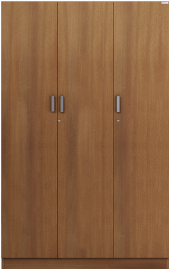
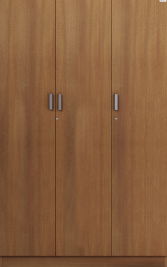
a

Changed region(s): [[0.0, 0.0, 1.0, 1.0]]

diff --git a/index.html b/index.html
@@ -167,10 +167,11 @@
 		scene.add(bedGroup);
 
 		var loader = new THREE.TextureLoader();
-		var textureBox = loader.load("wardrobe.png");
+		var textureBoxF = loader.load("wardrobe.png");
+		var textureBox = loader.load("wardrobes.png");
 
 		var materialsk = [
-			new THREE.MeshBasicMaterial({color: 0xdddddd, map: textureBox}),
+			new THREE.MeshBasicMaterial({color: 0xdddddd, map: textureBoxF}),
 			new THREE.MeshBasicMaterial({color: 0xdddddd, map: textureBox}),
 			new THREE.MeshBasicMaterial({color: 0xdddddd, map: textureBox}),
 			new THREE.MeshBasicMaterial({color: 0xdddddd, map: textureBox}),
